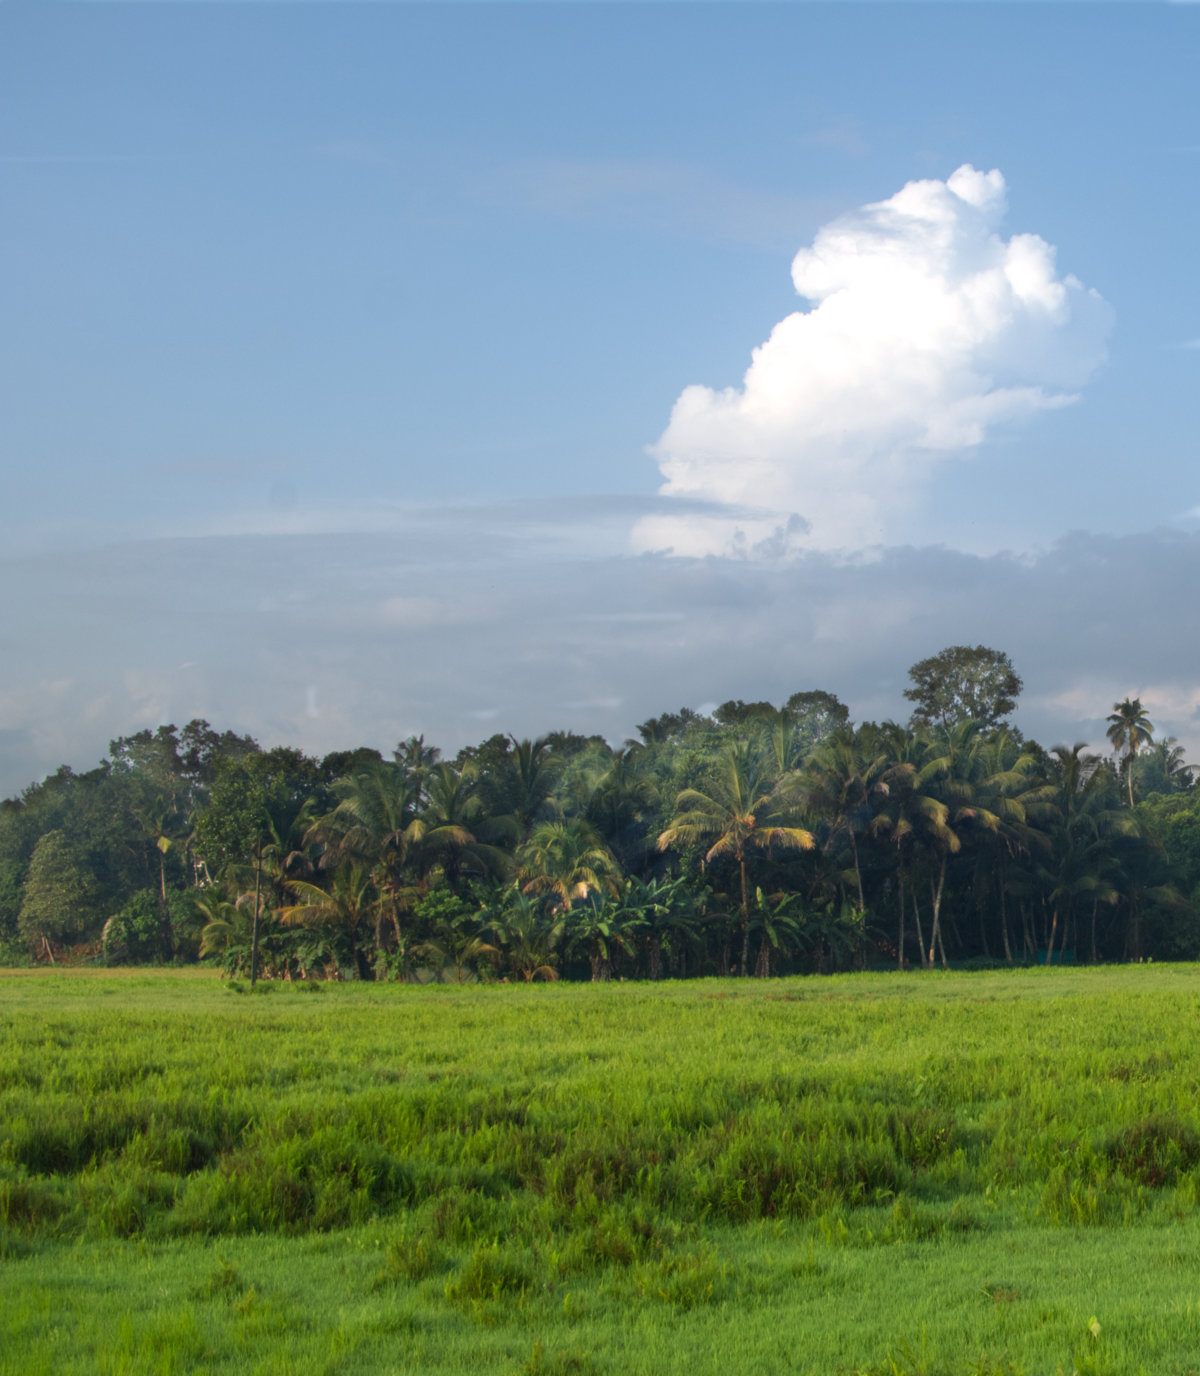
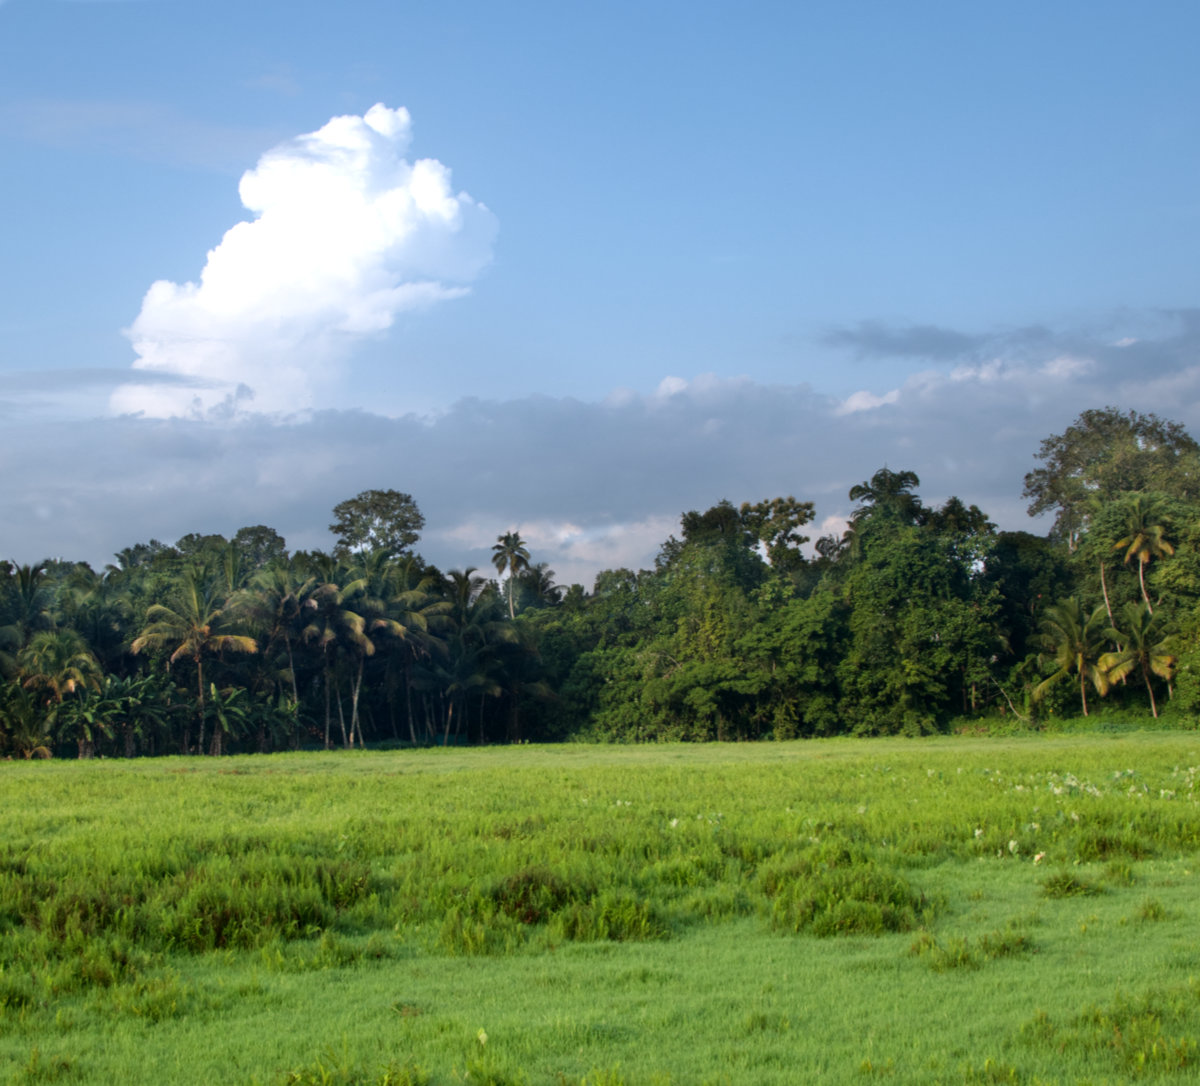
new photos added

diff --git a/photography/lockdown.html b/photography/lockdown.html
@@ -253,6 +253,9 @@
 	  <a href="../images/photos/VIJ3853.jpg" data-lightbox="locked-down" data-title="Burn">
 	    <img src="../images/photos/VIJ3853.jpg">
 	  </a>
+	  <a href="../images/photos/LVIJ4180.jpg" data-lightbox="locked-down" data-title="Thick">
+	    <img src="../images/photos/LVIJ4180.jpg">
+	  </a>
 	</div>
       </div>
       <script src="../lightbox2-2.11.1/dist/js/lightbox-plus-jquery.min.js"></script>
